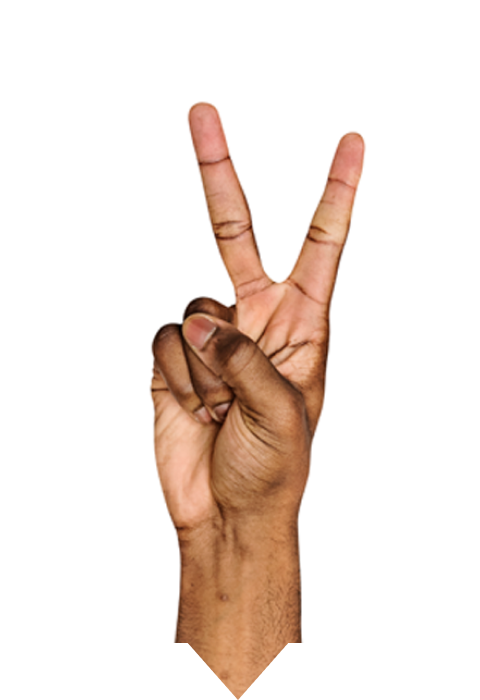
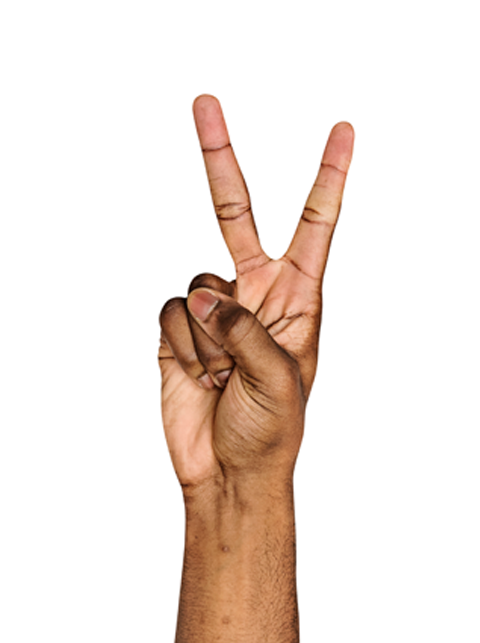
Parceiros

diff --git a/LP_gloria/src/app/shared/components/sponsor-area/sponsor-area.component.ts b/LP_gloria/src/app/shared/components/sponsor-area/sponsor-area.component.ts
@@ -20,6 +20,9 @@ export class SponsorAreaComponent implements OnInit {
   constructor() {}
 
   ngOnInit(): void {
+    console.log(this.sponsor);
+
+    this?.sponsor.sort(() => Math.random() - 0.5)
   }
 
 
